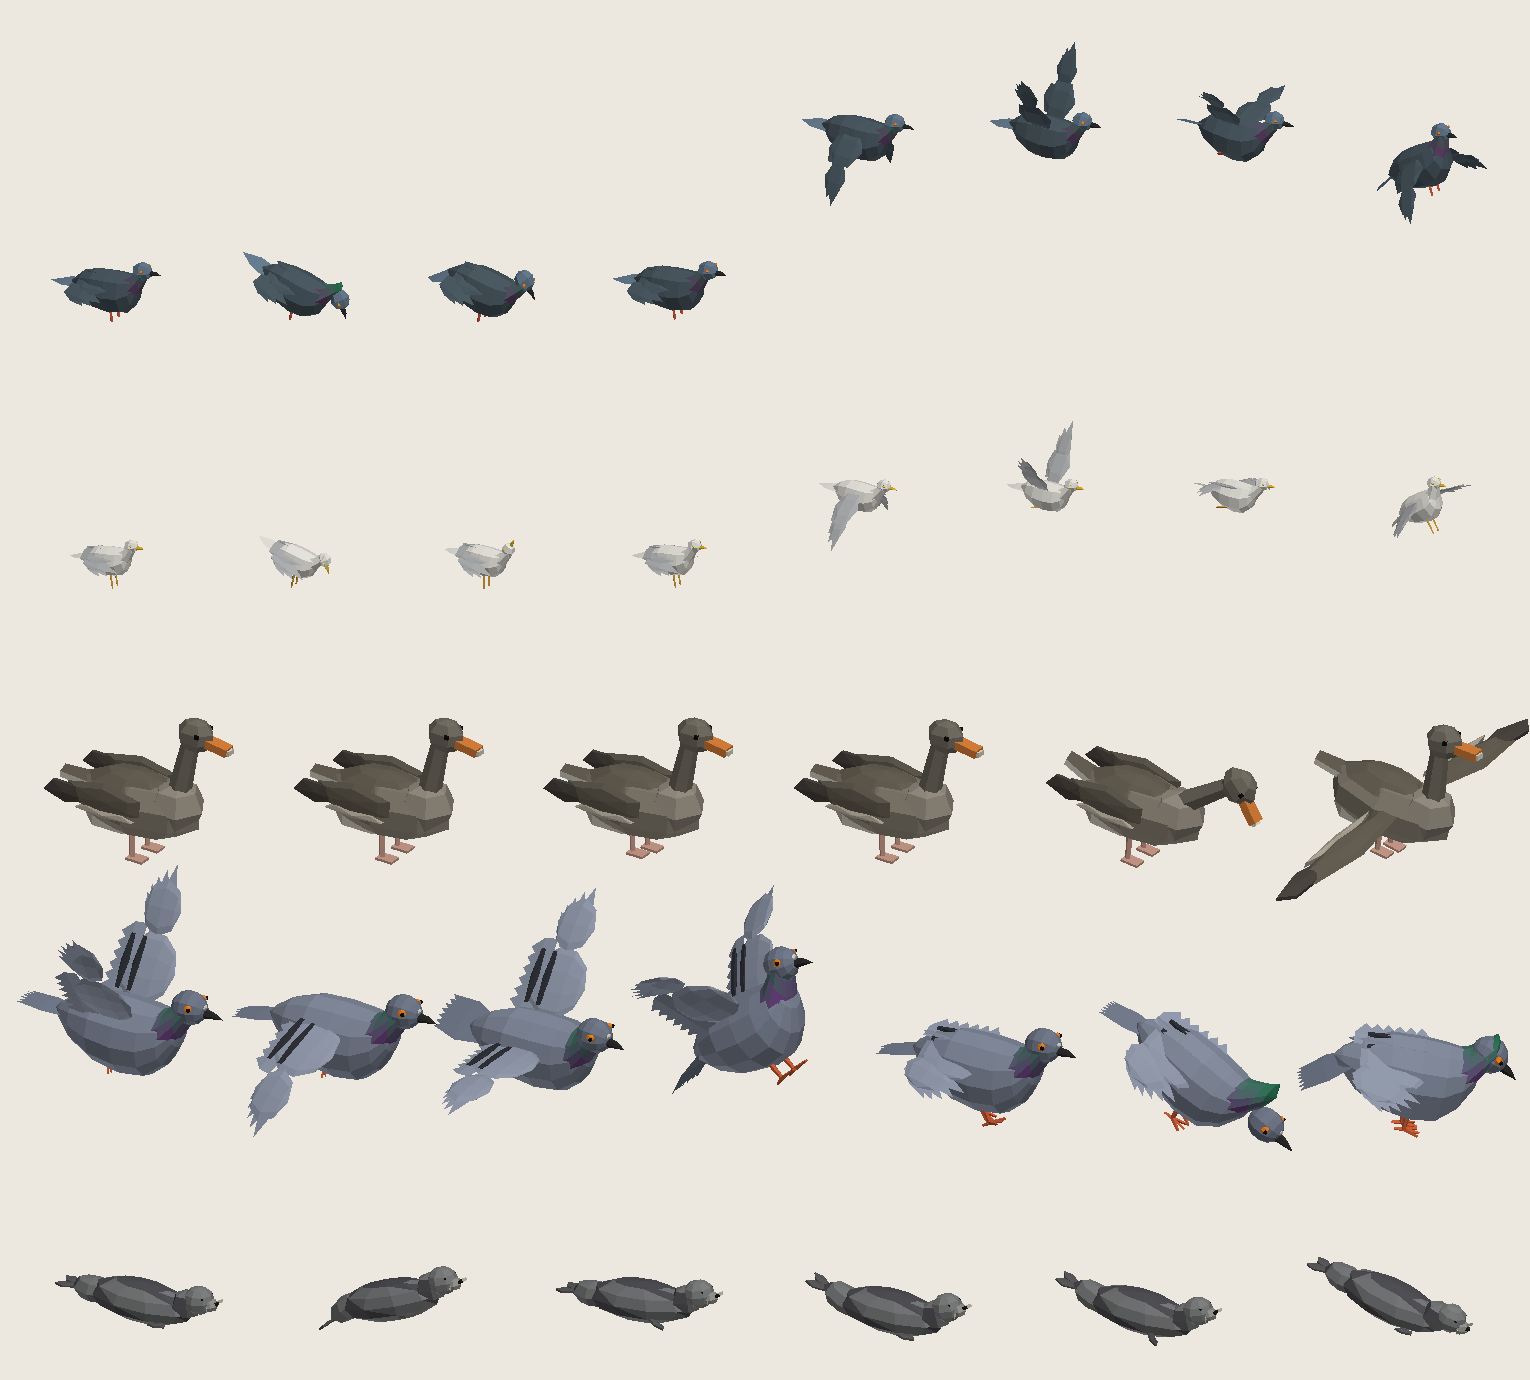
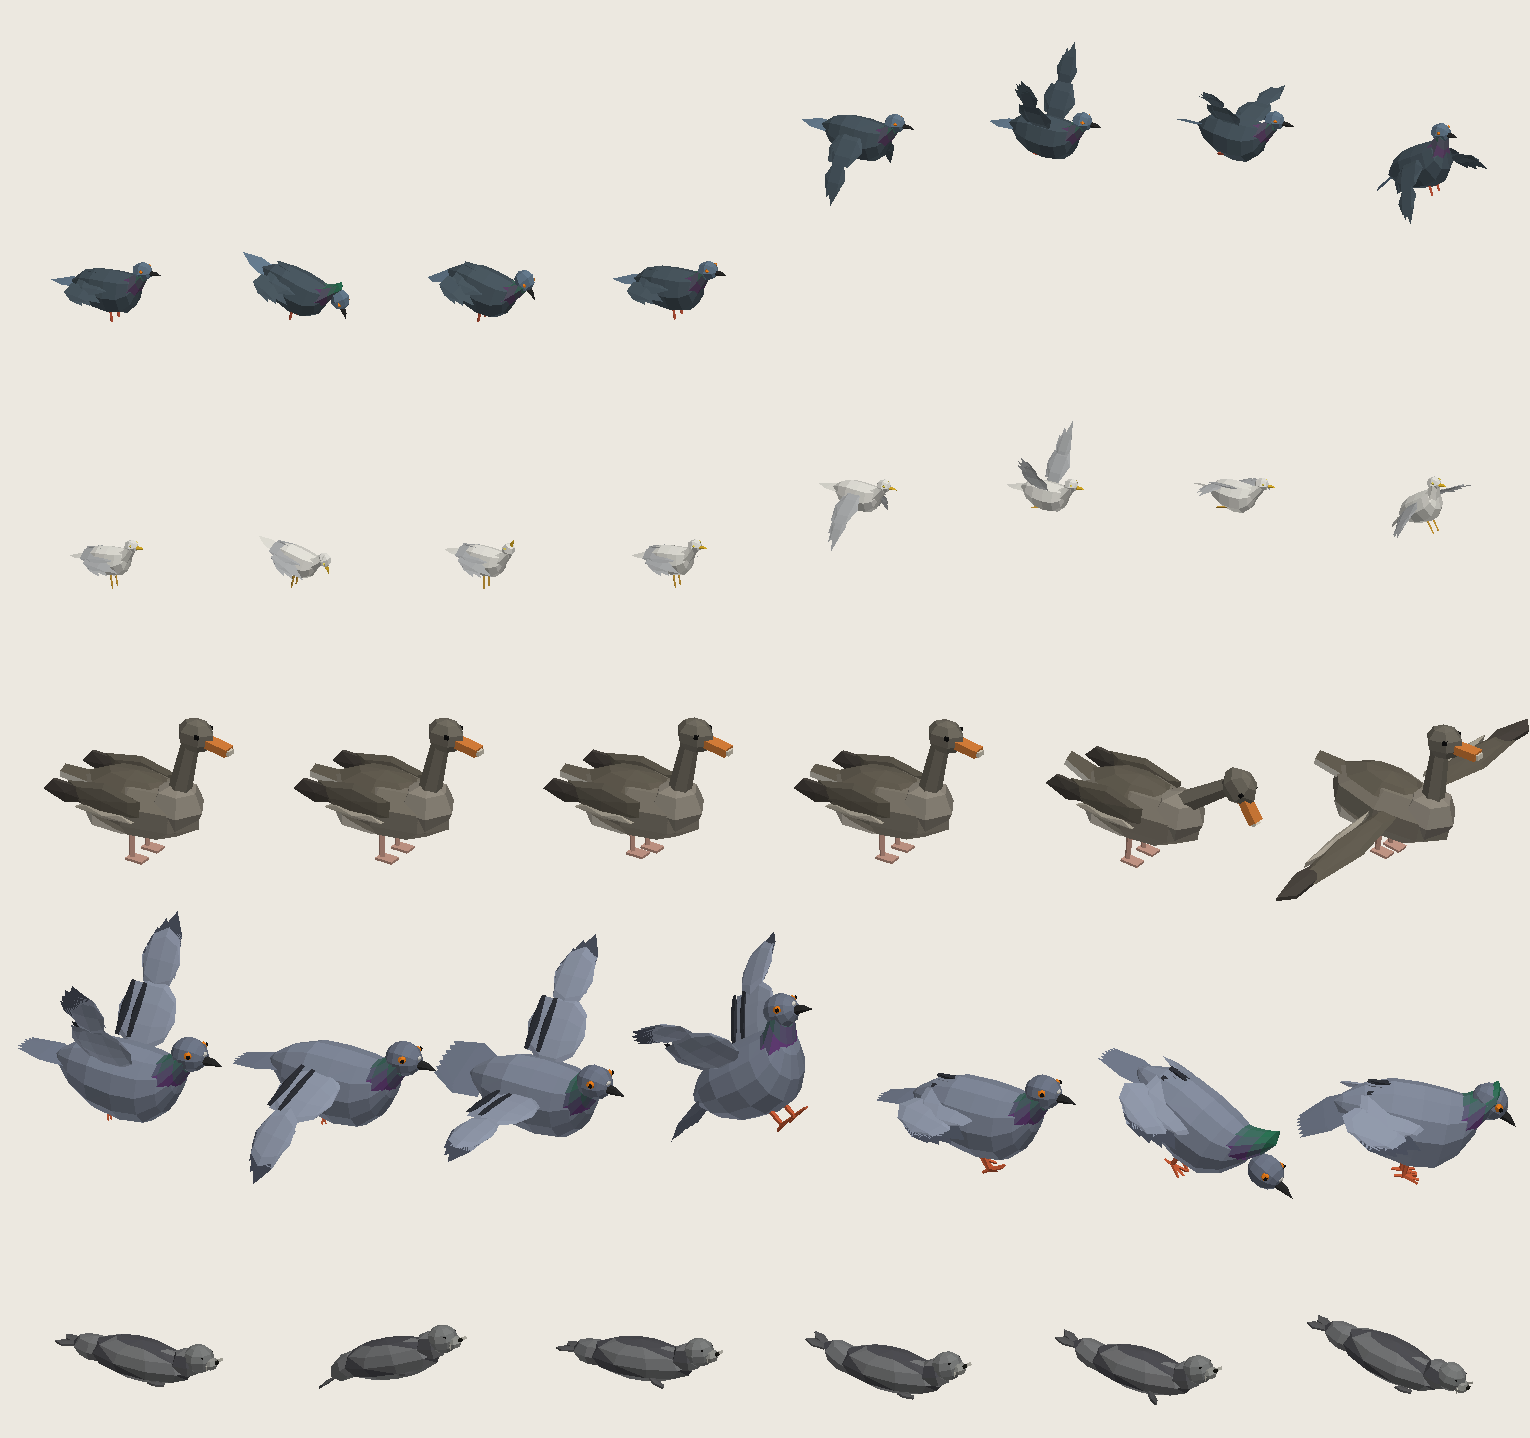
Spelersduif: doorlopende vleugelplaat, brede ronde handpennen en een gesloten staartwaaier op het hoogste niveau
Het hoogste niveau van het duivenmodel (spelersduif, zwerm in de duivenmodus, cutscenes, meeuw in een filmpje) krijgt dezelfde aanpak als het middelniveau: één armplaat in plaats van zes losse armpennen (de zaagtand langs de rug bij een gevouwen vleugel), vier brede afgeronde handpennen in drie segmenten, een handdekveer die de armvleugel overlapt en bredere staartveren die een gesloten waaier vormen. Vleugelbanden, glanzende nek, ogen en tenen blijven; het budget (600-1200) blijft gehaald. Beeldblad: de rij van de spelersduif is hoger, zodat de opgeslagen vleugel niet wordt afgesneden.

diff --git a/game/js/pigeonmodel.js b/game/js/pigeonmodel.js
@@ -199,7 +199,7 @@ function xform(geo, m) {
 // --- de duif per niveau ------------------------------------------------------------------------------------------------
 
 const DETAIL = {
-  hi: { sides: 12, headSides: 10, headStacks: 7, eye: [6, 4], pupil: [6, 3], coverts: [10, 5], wingBars: true, secondaries: 6, primaries: 5, featherSegs: 2, tailFeathers: 7, legSides: 6, toes: 3, hindToe: true, cere: true, neckSides: 12, torsoRings: 9 },
+  hi: { sides: 12, headSides: 10, headStacks: 7, eye: [6, 4], pupil: [6, 3], coverts: [10, 5], wingBars: true, secondaries: 0, armPlate: [8, 3], primaries: 4, handW: 0.04, handSpread: 0.5, featherSegs: 3, handCovert: [8, 4], tailFeathers: 7, tailW: 0.045, legSides: 6, toes: 3, hindToe: true, cere: true, neckSides: 12, torsoRings: 9 },
   mid: { sides: 8, headSides: 6, headStacks: 4, eye: null, pupil: null, coverts: [6, 3], wingBars: false, secondaries: 0, armPlate: [5, 3], primaries: 3, featherSegs: 2, handCovert: [5, 3], tailFeathers: 0, tailBlade: true, legSides: 4, toes: 0, hindToe: false, cere: false, neckSides: 6, torsoRings: 7 },
   far: { sides: 8, headSides: 7, headStacks: 3, blade: true, eye: null, pupil: null, coverts: [0, 0], wingBars: false, secondaries: 0, primaries: 0, featherSegs: 1, tailFeathers: 0, legSides: 0, toes: 0, hindToe: false, cere: false, neckSides: 0, torsoRings: 5 },
 };
@@ -247,7 +247,7 @@ function addWingParts(out, D, c, side, kind, sp) {
     out.push({ g: 'wing', side, geo: f });
   }
   // handpennen aan de buitenvleugel: waaiert naar buiten en wijst iets naar achteren
-  const spreadHand = D.armPlate ? 0.42 : 0.62, wHand = D.armPlate ? 0.034 : 0.027;   // a few broad, rounded primaries at the middle level
+  const spreadHand = D.handSpread ?? (D.armPlate ? 0.42 : 0.62), wHand = D.handW ?? (D.armPlate ? 0.034 : 0.027);   // a few broad, rounded primaries at the middle level
   for (let i = 0; i < D.primaries; i++) {
     const t = D.primaries > 1 ? i / (D.primaries - 1) : 0;
     const f = feather((0.17 - t * 0.065) * big, wHand, D.featherSegs, -0.018, 0.4, wingHex, c.tip);
@@ -293,7 +293,7 @@ export function pigeonParts(lod = 'hi', { kind = 'pigeon', variant = null, map =
     const n = D.tailFeathers;
     for (let i = 0; i < n; i++) {
       const t = n > 1 ? i / (n - 1) - 0.5 : 0;
-      const f = feather(0.15, 0.03, D.featherSegs, -0.01, 0.25, c.tail, c.band);
+      const f = feather(0.15, D.tailW ?? 0.03, Math.min(2, D.featherSegs), -0.01, 0.25, c.tail, c.band);   // broad feathers overlap into a closed fan
       xform(f, place(0, 0, 0, 0, Math.PI + t * 0.5, 0.04 - Math.abs(t) * 0.05));
       out.push({ g: 'tail', geo: f });
     }
